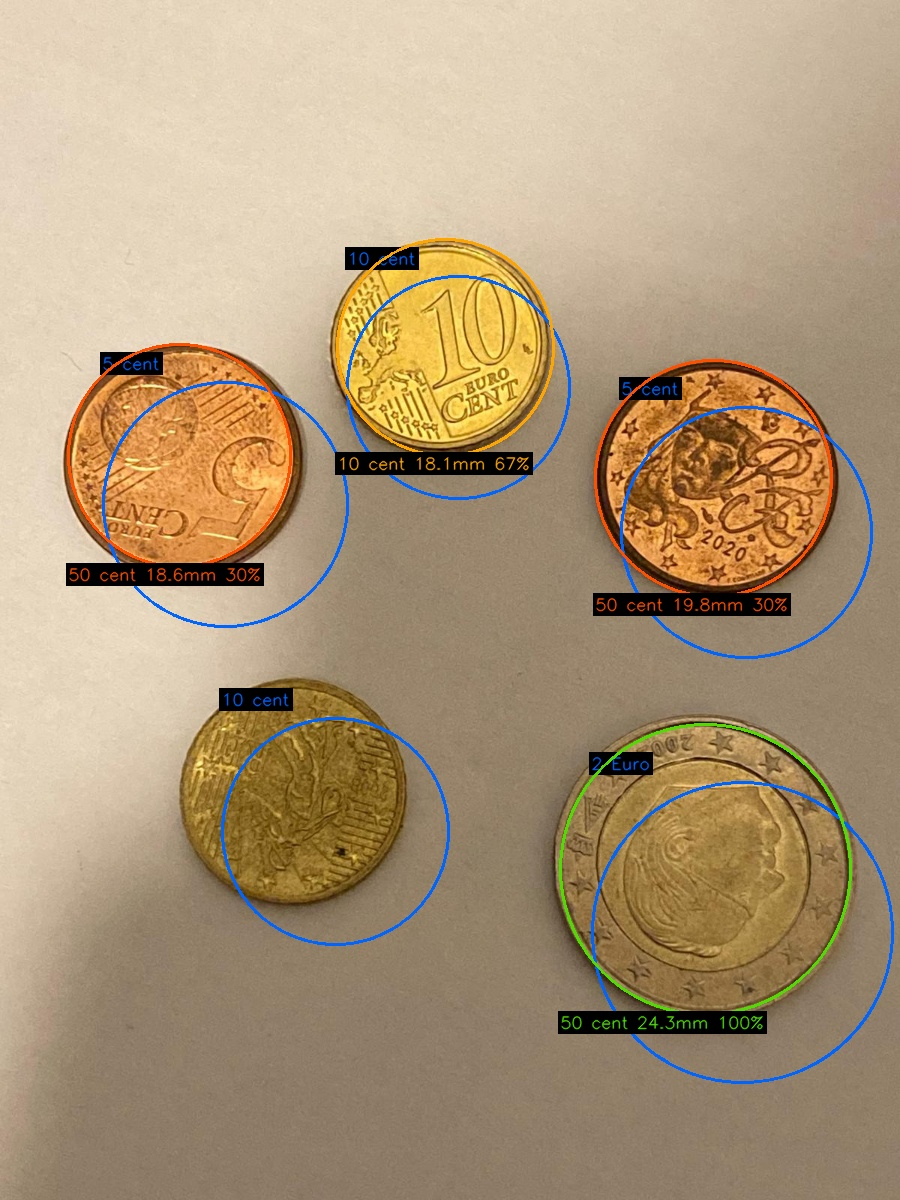
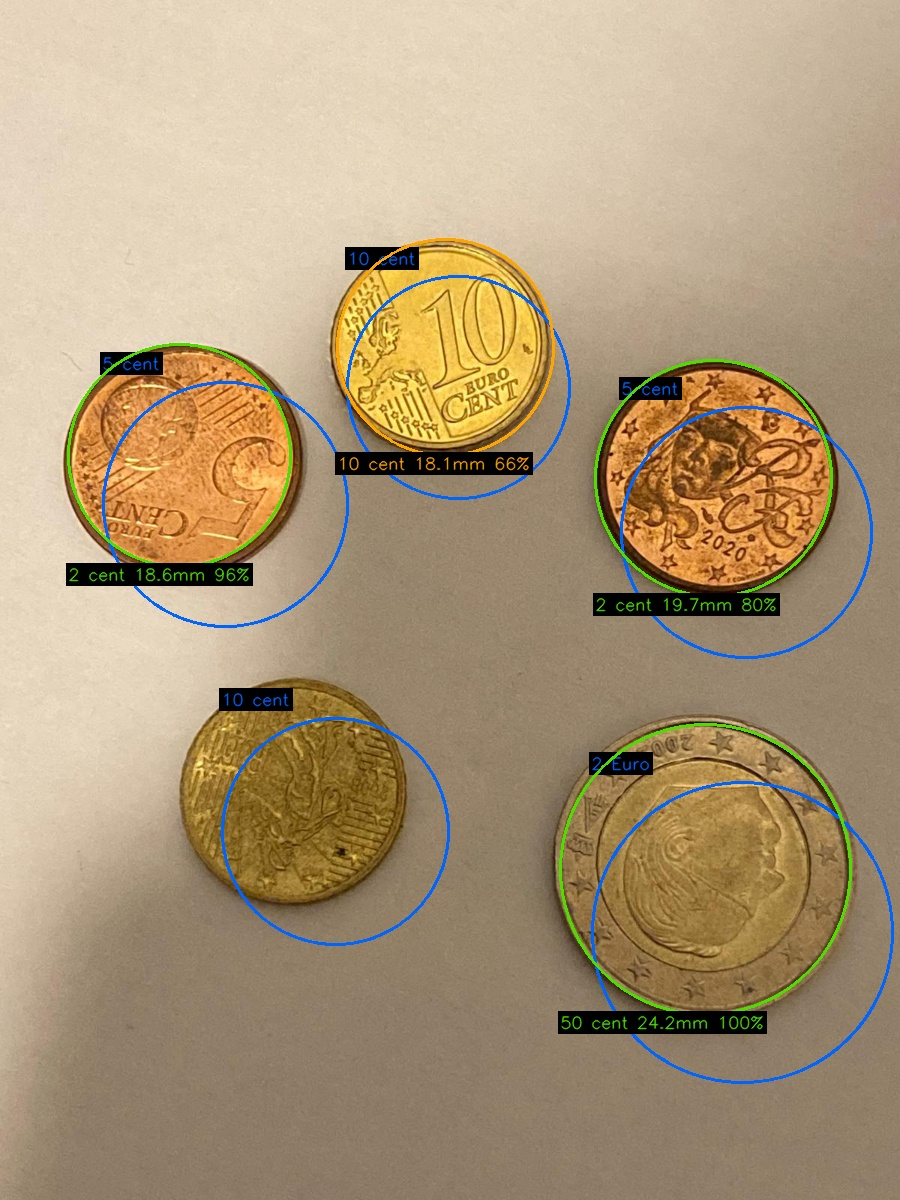
Amelioration classification : 65.4%

diff --git a/core/features.py b/core/features.py
@@ -8,10 +8,10 @@ import numpy as np
 # Les pièces silver (1€/2€) ont une très faible saturation (gris).
 COLOR_RANGES = {
     "bronze": [
-        (0,   15, 60, 255, 40, 210),
-        (165, 180, 60, 255, 40, 210),  # zone rouge côté 180° de la roue HSV
+        (0,   17, 60, 255, 40, 240),
+        (165, 180, 60, 255, 40, 240),  # zone rouge côté 180° de la roue HSV
     ],
-    "gold":   [(15, 40, 40, 220, 60, 255)],
+    "gold":   [(17, 40, 40, 220, 60, 255)],
     "silver": [(0, 180,  0,  45, 50, 255)],
 }
 

diff --git a/core/classification.py b/core/classification.py
@@ -250,7 +250,7 @@ def classify_all(features_list):
 
         # k-NN prioritaire si confiance suffisante, sinon scale factor
         # Pour silver (1€/2€) : k-NN toujours utilisé car scale factor peu fiable (2.5mm)
-        if color == "gold" and knn_label is not None and knn_conf > 0.50:
+        if color == "gold" and knn_label is not None and knn_conf > 0.56:
             final_label = knn_label
         elif color == "bronze" and knn_label is not None and knn_conf > 1.0:
             final_label = knn_label
